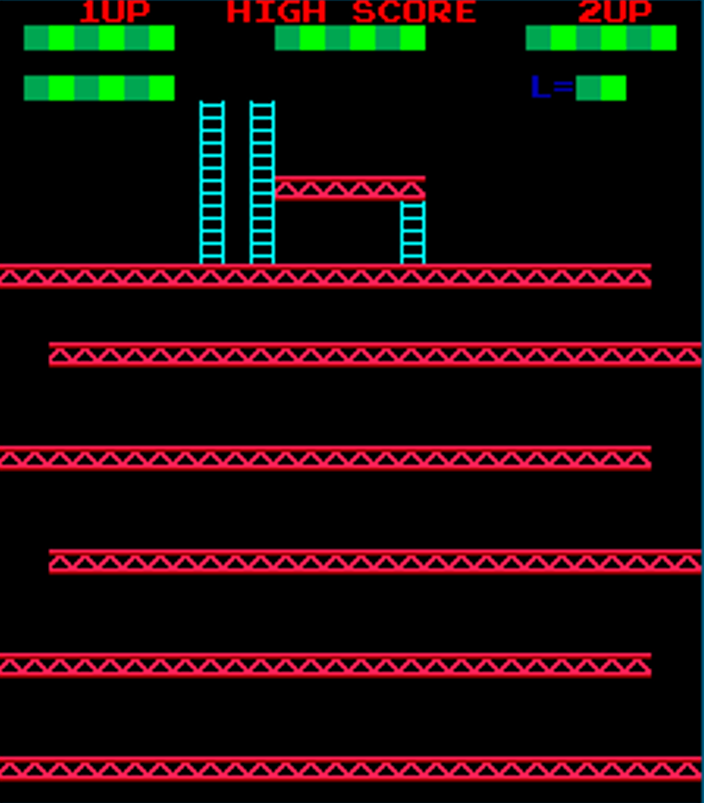
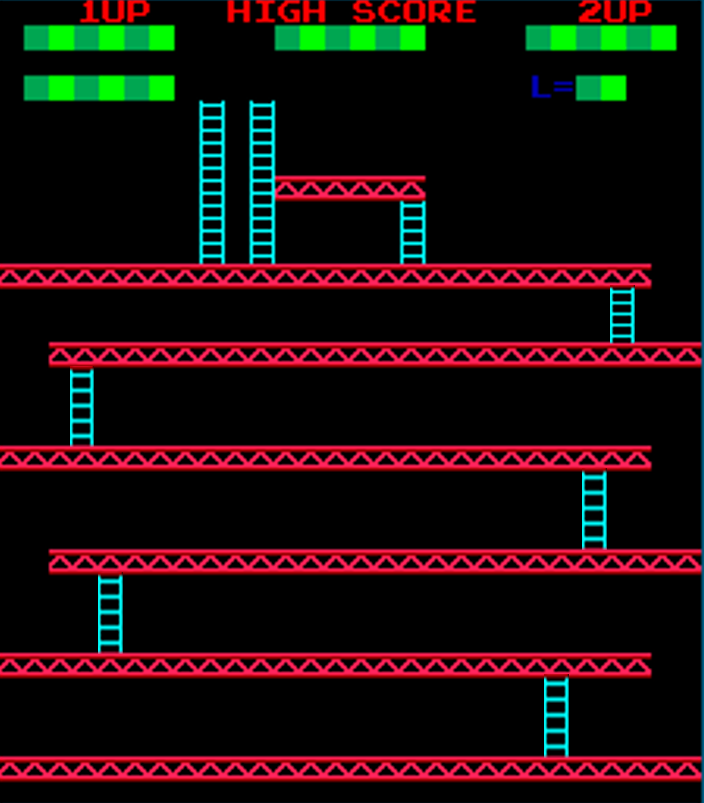
escadas

diff --git a/game.py b/game.py
@@ -18,8 +18,20 @@ def inicializa():
     assets['background'] = pygame.transform.scale(assets['background'], dimensoes)
     assets['ponte'] = pygame.image.load('assets/img/bridge.png') 
     assets['ponte'] = pygame.transform.scale(assets['ponte'], (90, 50))
+    assets
 
 
+
+    retangulos = {
+    'retangulo': pygame.Rect((0, 312), (665, 29)),
+    'retangulo1': pygame.Rect((52, 405), (665, 29)),
+    'retangulo2': pygame.Rect((0, 528), (665, 29)),
+    'retangulo3': pygame.Rect((52, 650), (665, 29)),
+    'retangulo4': pygame.Rect((0, 774), (665, 29)),
+    'retangulo5': pygame.Rect((0, 895), (720, 29)),
+    'retangulo6': pygame.Rect((282, 210), (153, 28))
+
+    }
 
     # Inicializa o estado do jogo
     state = {
@@ -28,7 +40,7 @@ def inicializa():
 
 
 
-    return window, assets, state
+    return window, assets, state, retangulos
     
 # Recebe eventos do Pygame
 def recebe_eventos(state, window):
@@ -42,6 +54,8 @@ def recebe_eventos(state, window):
     state['fps'] = fps
 
 
+
+
     for event in pygame.event.get():
         if event.type == pygame.QUIT:  # Se o evento QUIT foi acionado, retorna False
             return False
@@ -52,35 +66,47 @@ def recebe_eventos(state, window):
 
 
 
-def desenha(window, assets, state):
+def desenha(window, assets, state, retangulos):
+    
+
+
+    for retangulo in retangulos.values():
+        pygame.draw.rect(window, 'red', retangulo)
     
     window.blit(assets['background'], (0, 0))
     # window.blit(assets['ponte'], (0, 0))
-    retangulo = pygame.Rect((0, 312), (665, 29))
-    retangulo1 = pygame.Rect((52, 405), (665, 29))
-    retangulo2 = pygame.Rect((0, 528), (665, 29))
-    retangulo3 = pygame.Rect((52, 650), (665, 29))
-    retangulo4 = pygame.Rect((0, 774), (665, 29))
-    retangulo5 = pygame.Rect((0, 895), (720, 29))
+
+    
+    escada = pygame.Rect((203, 120), (28, 193))
+    escada1 = pygame.Rect((254, 120), (28, 193))
+    escada2 = pygame.Rect((410, 237), (28, 75))
+    escada3 = pygame.Rect((623, 341), (28, 65))
+    escada4 = pygame.Rect((71, 435), (28, 95))
+    escada5 = pygame.Rect((595, 555), (28, 95))
+    escada6 = pygame.Rect((99, 678), (28, 95))
+    escada7 = pygame.Rect((99, 878), (28, 95))
 
 
-    pygame.draw.rect(window, 'red', retangulo)
-    pygame.draw.rect(window, 'red', retangulo1)
-    pygame.draw.rect(window, 'red', retangulo2)
-    pygame.draw.rect(window, 'red', retangulo3)
-    pygame.draw.rect(window, 'red', retangulo4)
-    pygame.draw.rect(window, 'red', retangulo5)
+    pygame.draw.rect(window, 'blue', escada)
+    pygame.draw.rect(window, 'blue', escada1)
+    pygame.draw.rect(window, 'blue', escada2)
+    pygame.draw.rect(window, 'blue', escada3)
+    pygame.draw.rect(window, 'blue', escada4)
+    pygame.draw.rect(window, 'blue', escada5)
+    pygame.draw.rect(window, 'blue', escada6)
+    pygame.draw.rect(window, 'blue', escada7)
+
 
 
     pygame.display.update()  # Atualiza a tela
 
 # Loop principal do jogo
-def game_loop(window, assets, state):
+def game_loop(window, assets, state, retangulos):
     
     while recebe_eventos(state, window):  # Continua recebendo eventos e desenhando na tela até que o usuário feche a janela do jogo
-        desenha(window, assets, state)
+        desenha(window, assets, state, retangulos)
 
 if __name__ == '__main__':
     
-    w, assets, state = inicializa()  # Inicializa o Pygame e carrega os recursos necessários
-    game_loop(w, assets, state)  # Inicia o loop principal do jogo
+    w, assets, state, retangulos = inicializa()  # Inicializa o Pygame e carrega os recursos necessários
+    game_loop(w, assets, state, retangulos)  # Inicia o loop principal do jogo
